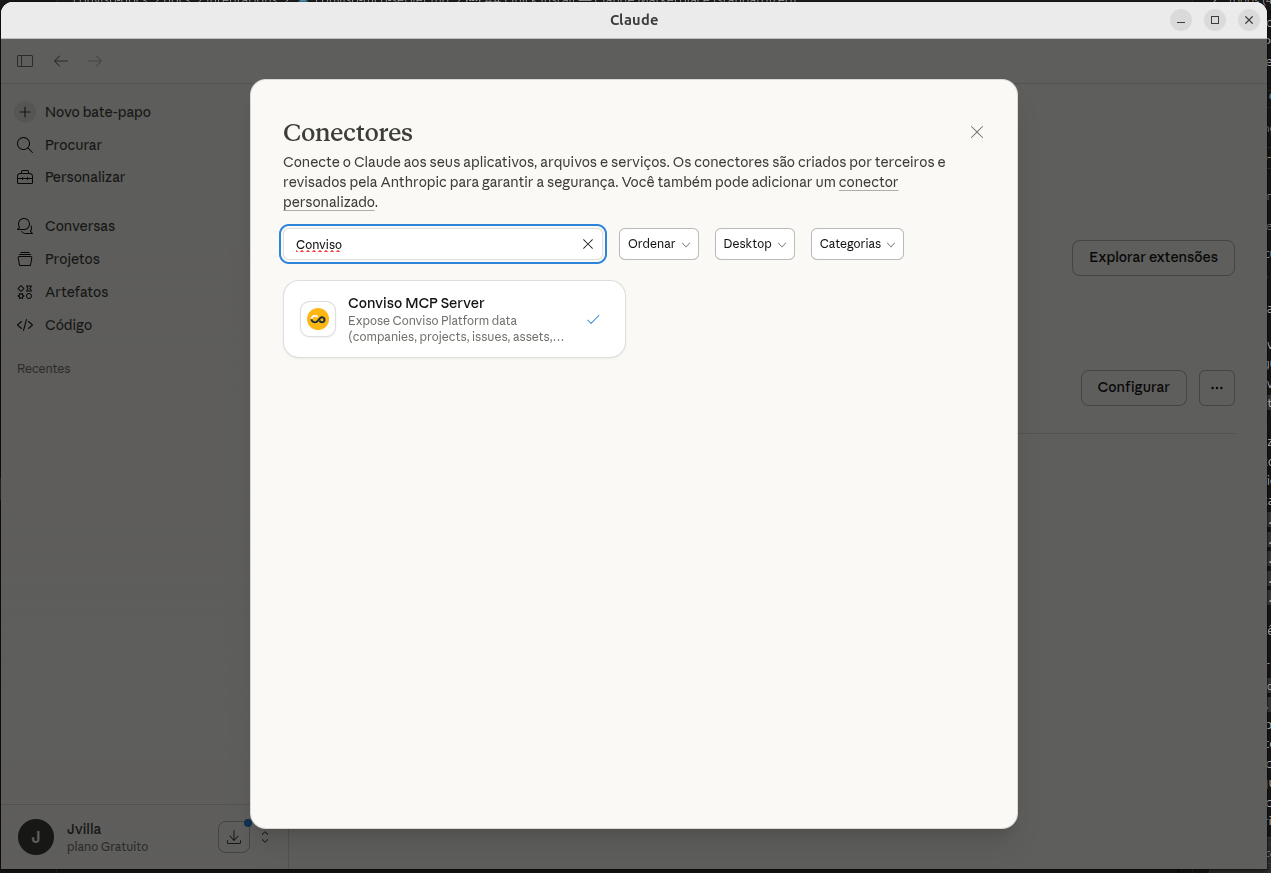
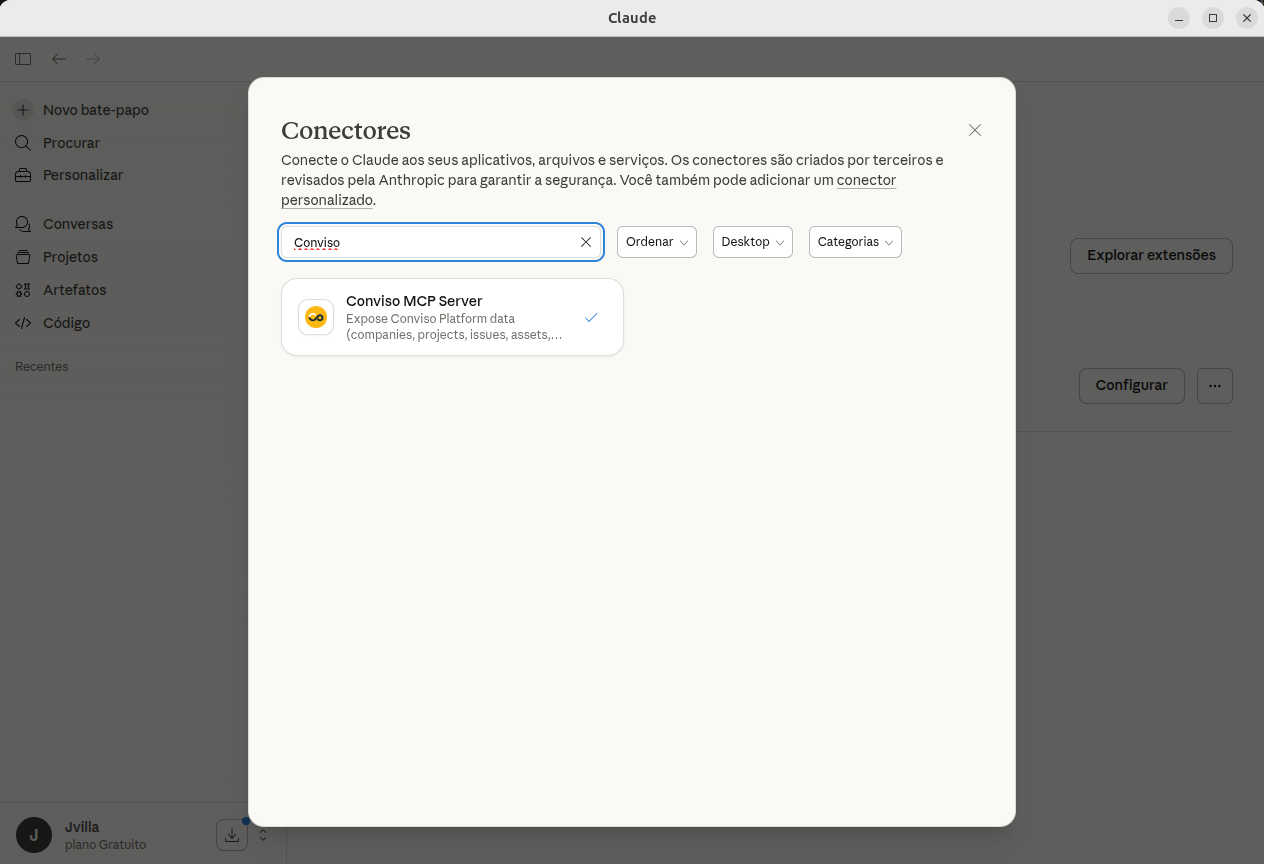
docs: improved screenshots

diff --git a/docs/integrations/conviso-mcp-server.md b/docs/integrations/conviso-mcp-server.md
@@ -57,7 +57,7 @@ Below is a short, step-by-step flow to install and configure the Conviso MCP Ser
 
 <div style={{textAlign: 'center'}}>
 
-![step-1](../../static/img/conviso_mcp-img1.png)
+![step-1](../../static/img/screenshots/new-20260402-123925.png)
 
 </div>
 
